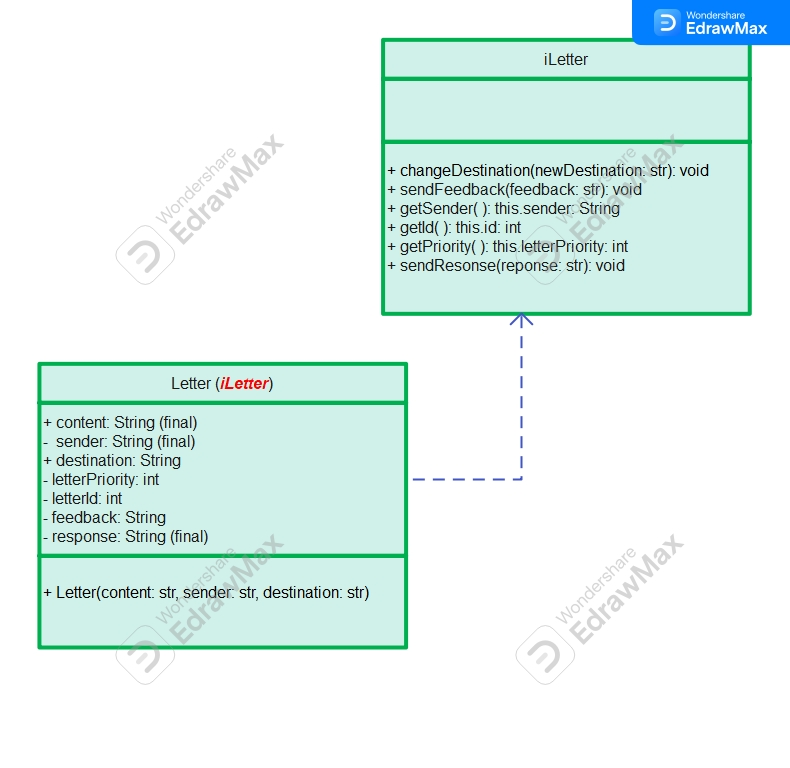
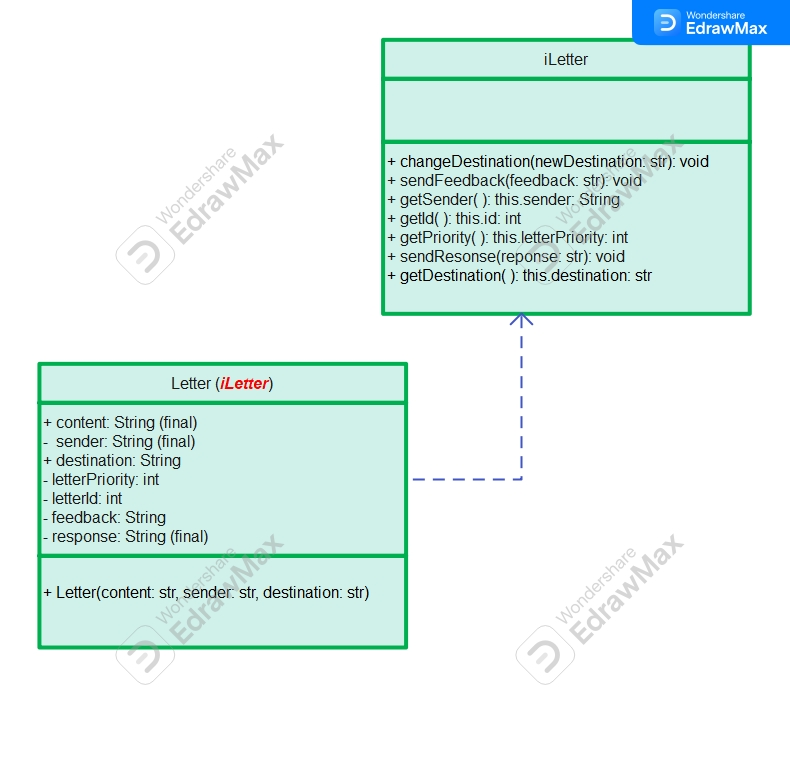
The Design Pattern Real Life Application

Changed region(s): [[0.4861, 0.1875, 0.9114, 0.375]]

diff --git a/src/ChainOfRespPattern.java b/src/ChainOfRespPattern.java
@@ -7,6 +7,7 @@ interface iLetter
     int getPriority();
     void sendResponse(String response);
     void changeDestination(String newDestination);
+    String getDestination();
 
 }
 class Letter implements iLetter
@@ -28,10 +29,10 @@ class Letter implements iLetter
         this.sender = sender;
         this.destination = destination;
     }
+
     @Override
     public void sendFeedback(String feedback) {
         this.feedback = feedback;
-
 
         System.out.println(" ");
         System.out.println("............................");
@@ -76,6 +77,11 @@ class Letter implements iLetter
         System.out.println(" ");
         System.out.println("............................");
     }
+
+    @Override
+    public String getDestination() {
+        return this.destination;
+    }
 }
 
 interface iHandler
@@ -84,6 +90,59 @@ interface iHandler
     void pass(iLetter letter);
 }
 
+class IT implements iHandler
+{
+
+    @Override
+    public void process(iLetter letter) {
+
+    }
+
+    @Override
+    public void pass(iLetter letter) {
+
+    }
+}
+class HR implements iHandler
+{
+    LetterLinkedList letterBox;
+    Getters getters;
+    HR()
+    {
+        this.letterBox = new LetterLinkedList();
+    }
+    @Override
+    public void process(iLetter letter)
+    {
+        if(letter.getDestination().equalsIgnoreCase("hr"))
+        {
+            switch(letter.getPriority())
+            {
+                case 1:
+                    this.getters = new Getters();
+                    String response = this.getters.getString("Enter Response Message: ");
+                    letter.sendResponse(response);
+                    letter.sendFeedback("responded");
+                    this.getters = null;
+                    this.letterBox.addLetter(letter);
+                    break;
+
+
+
+            }
+            return;
+        }
+        this.pass(letter);
+    }
+
+    iHandler nextHandler;
+    @Override
+    public void pass(iLetter letter)
+    {
+        this.nextHandler = new IT();
+        this.nextHandler.process(letter);
+    }
+}
 public class ChainOfRespPattern {
     /*
 

diff --git a/src/Getters.java b/src/Getters.java
@@ -3,10 +3,10 @@ import java.util.Scanner;
 public class Getters {
 
     private Scanner getScanner;
-    public String getString()
+    public String getString(String prompt)
     {
         getScanner = new Scanner(System.in);
-        System.out.println("[+] Enter Message: ");
-        return getScanner.next();
+        System.out.println(prompt);
+        return getScanner.nextLine();
     }
 }
